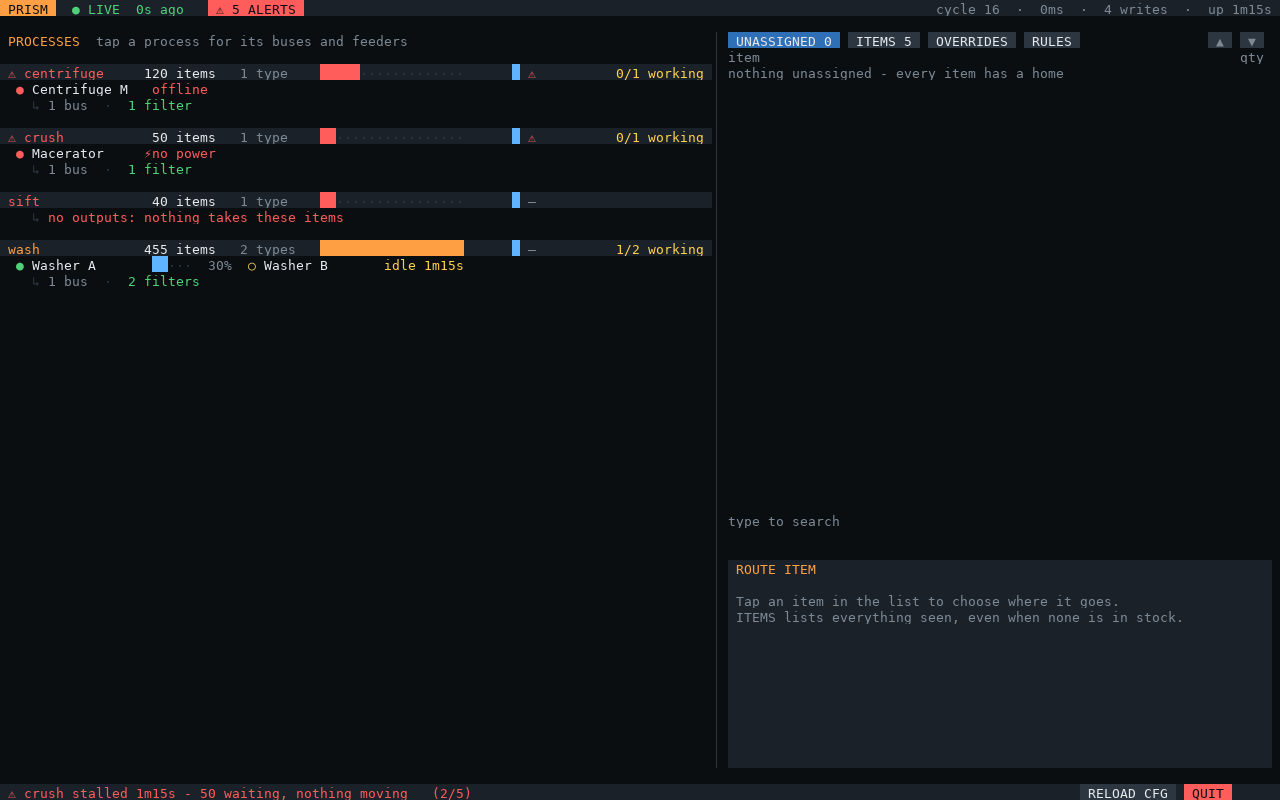
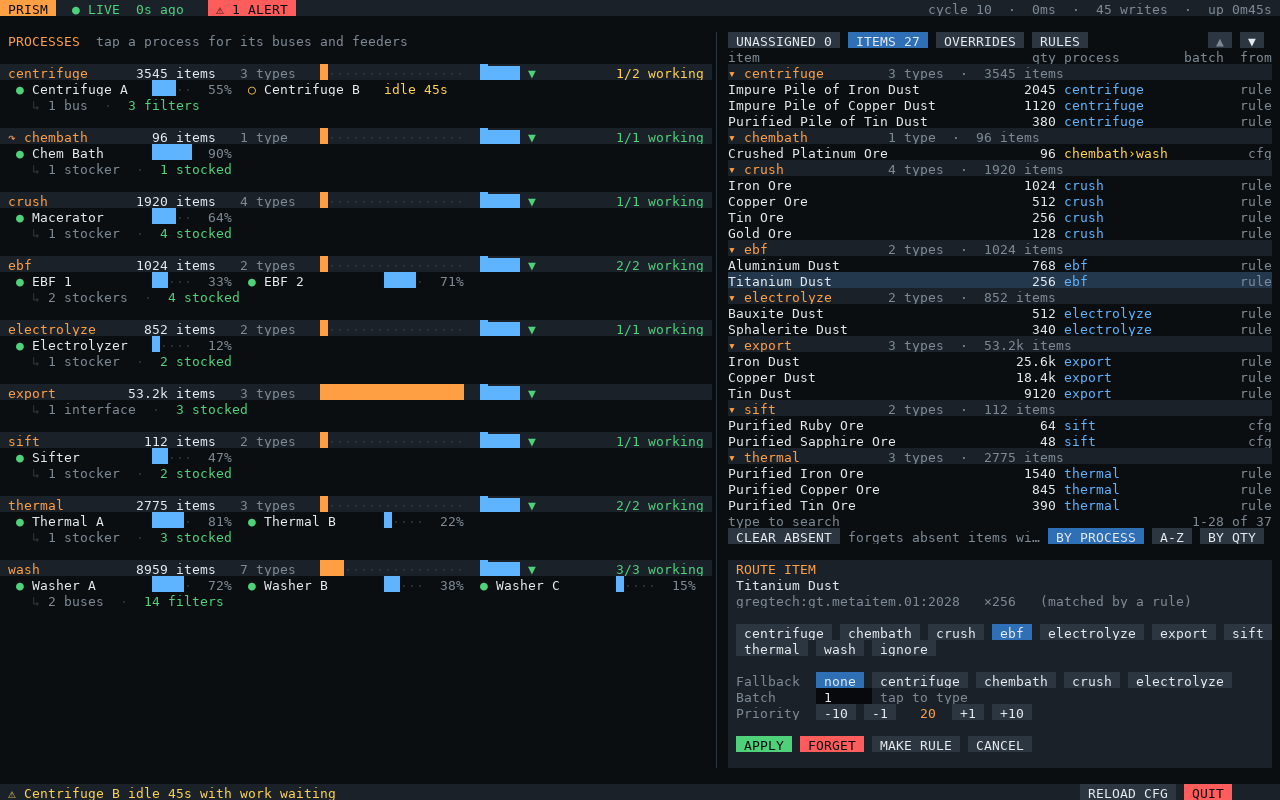
README images from a busy ore line (test_showcase)
The README's control screen and rule editor came from test scenes with a few
items, so they were mostly blank. test_showcase.lua runs the router over a
realistic line (nine processes, thirteen machines, export buses, stockers and
an interface, a fallback, an idle centrifuge) and draws the control screen:
process cards with ITEMS grouped by process and an item open, and the rule
editor previewing Ore$ (16 matches, with which rule or override wins).
make docs-images copies them to dashboard.png and rule-editor.png.

diff --git a/tests/README.md b/tests/README.md
@@ -22,6 +22,7 @@ Each `test_*.lua` runs in its own interpreter; the runner exits non-zero on any 
 | `test_feeders.lua` | Exact-batch feeding against a machine that only consumes full batches; catalog paging, forget |
 | `test_monitor_rules.lua` | Machine states, stall/idle alerts, rule commands and preview |
 | `test_control.lua` | Screen: routing an item, ITEMS paging, search, grouping and sorting, batch, forget, clear absent, overrides |
+| `test_showcase.lua` | A busy ore line on the screen (nine processes, every kind of output) for the README's images: `make docs-images` |
 | `test_control_rules.lua` | Screen: process cards and machines, alerts, beep, rule editor, MAKE RULE, trimmed and compact cards, version badge |
 | `test_discover.lua` | prism-discover output |
 | `test_setup.lua` | prism-setup for router and screen: rules, hardware, wireless, start on boot, re-runs, backups, cancelling; both programs running on its output |
